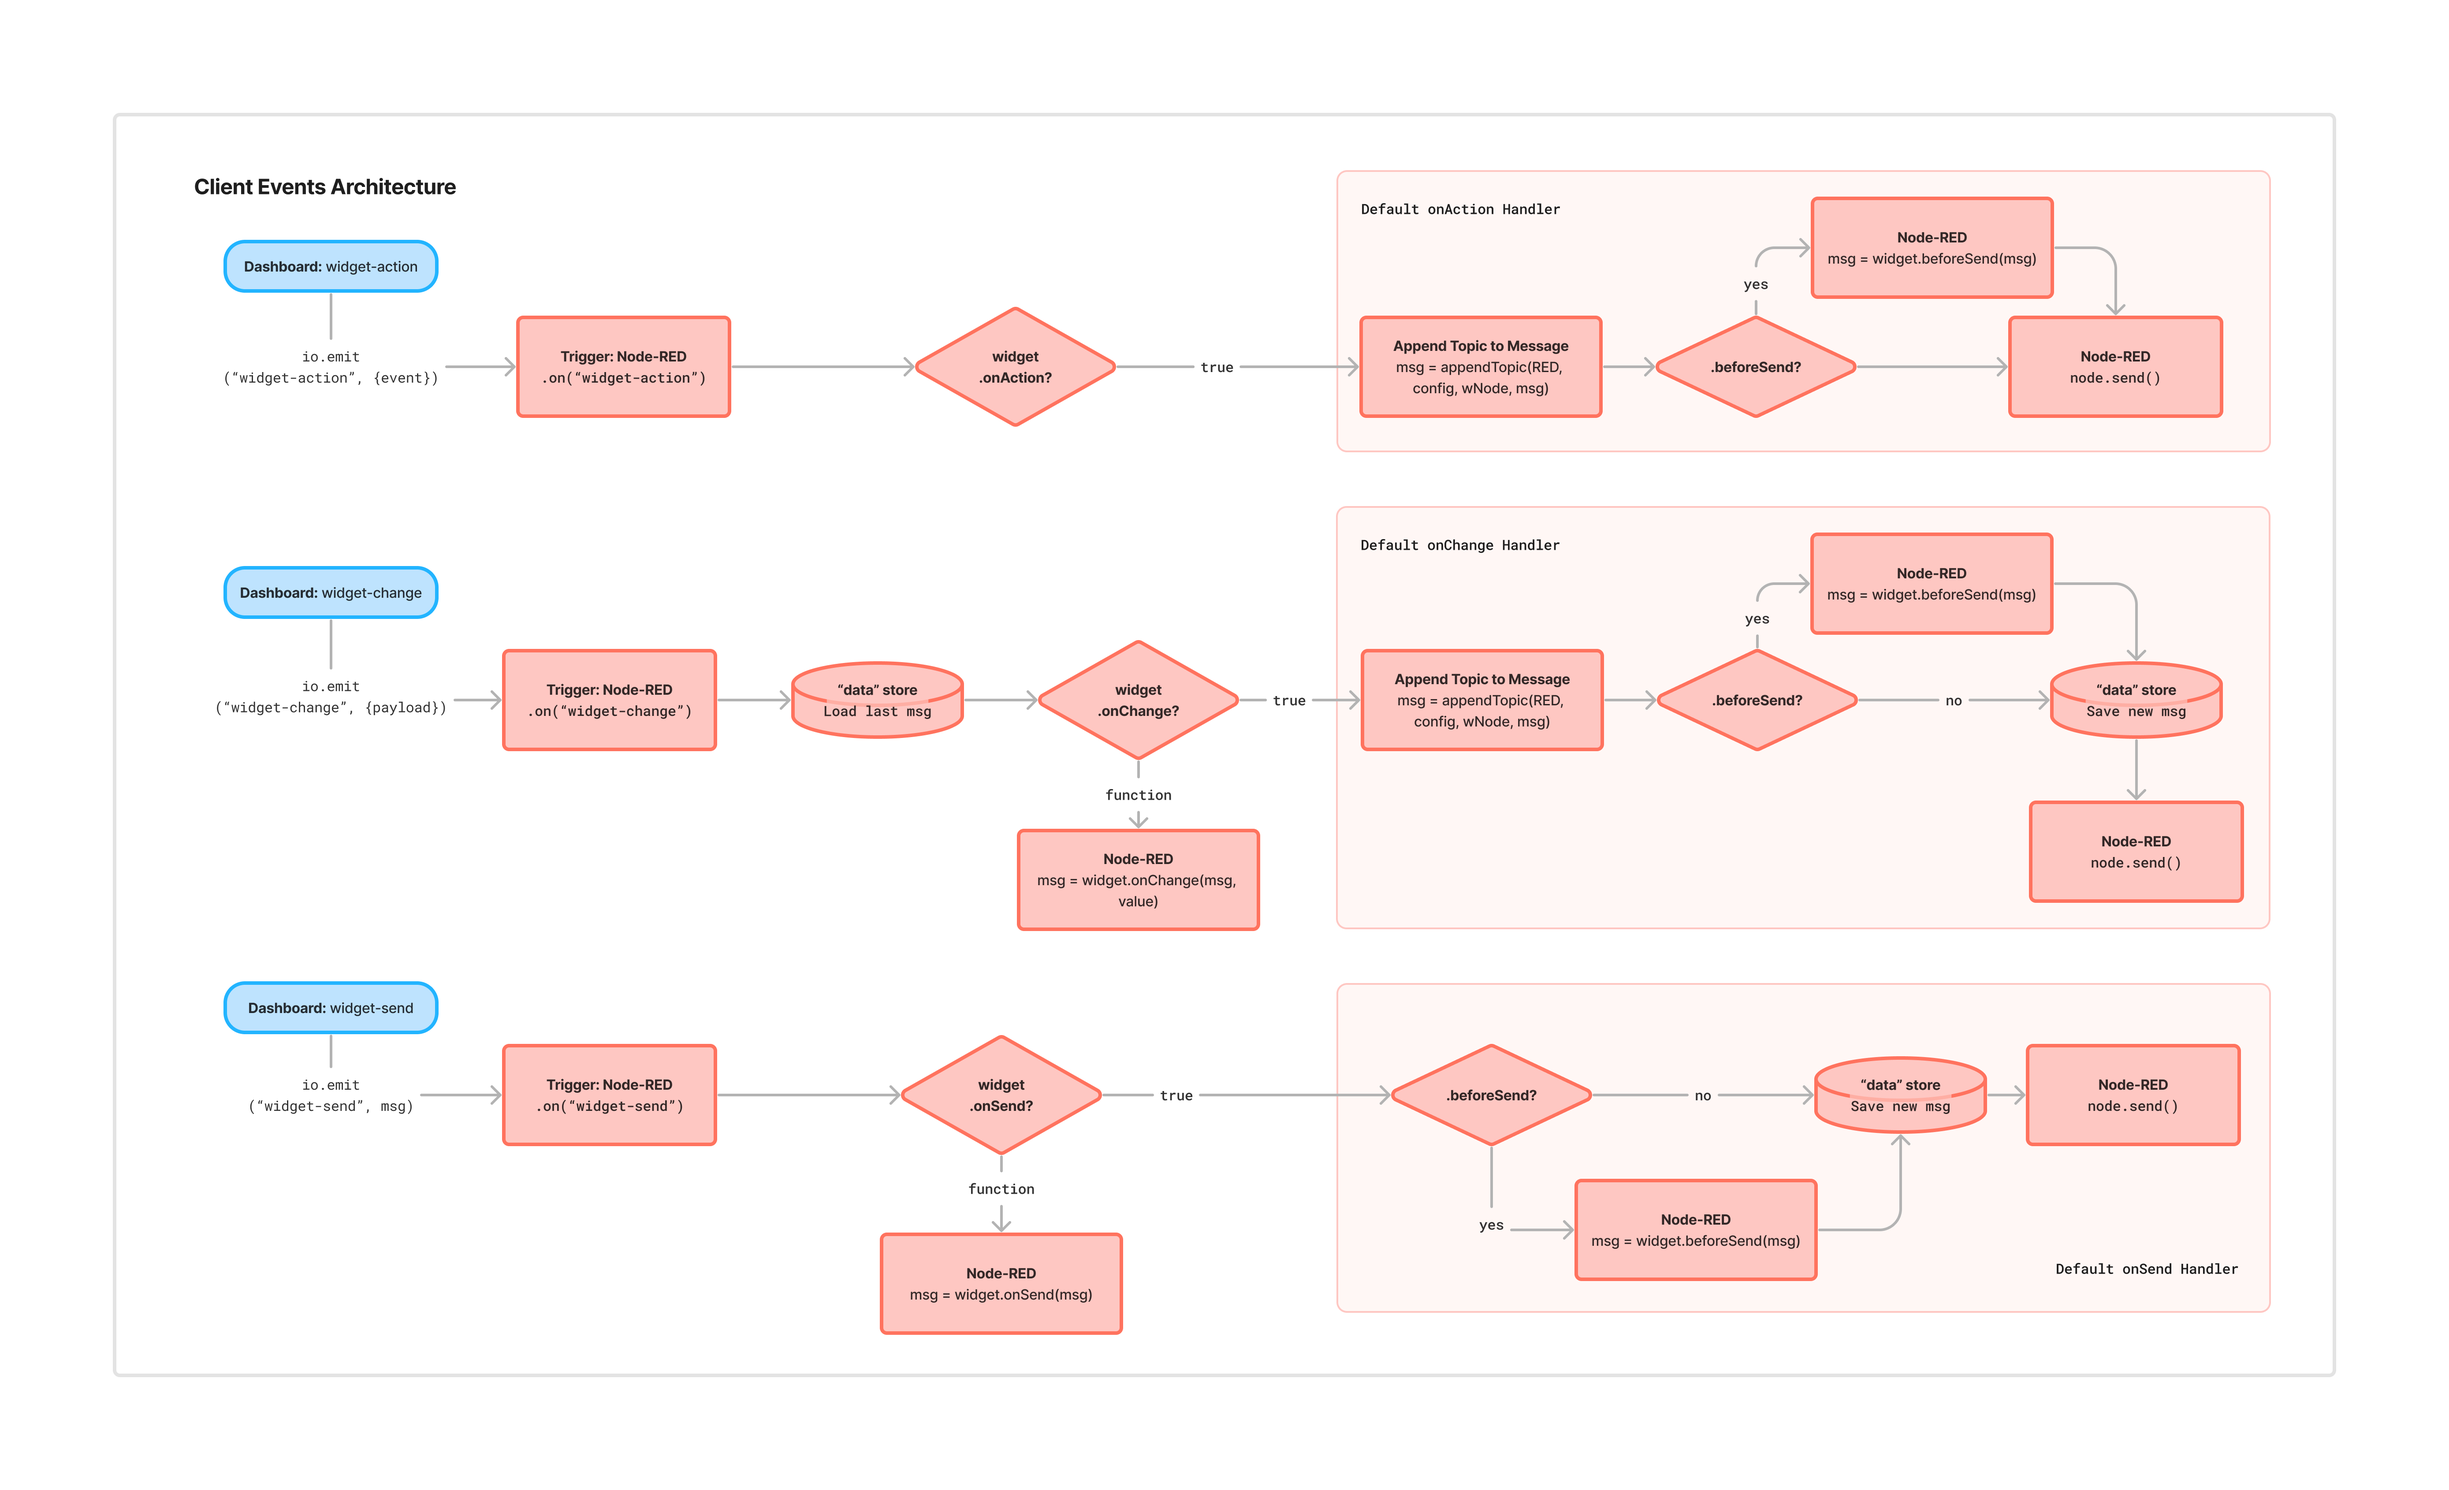
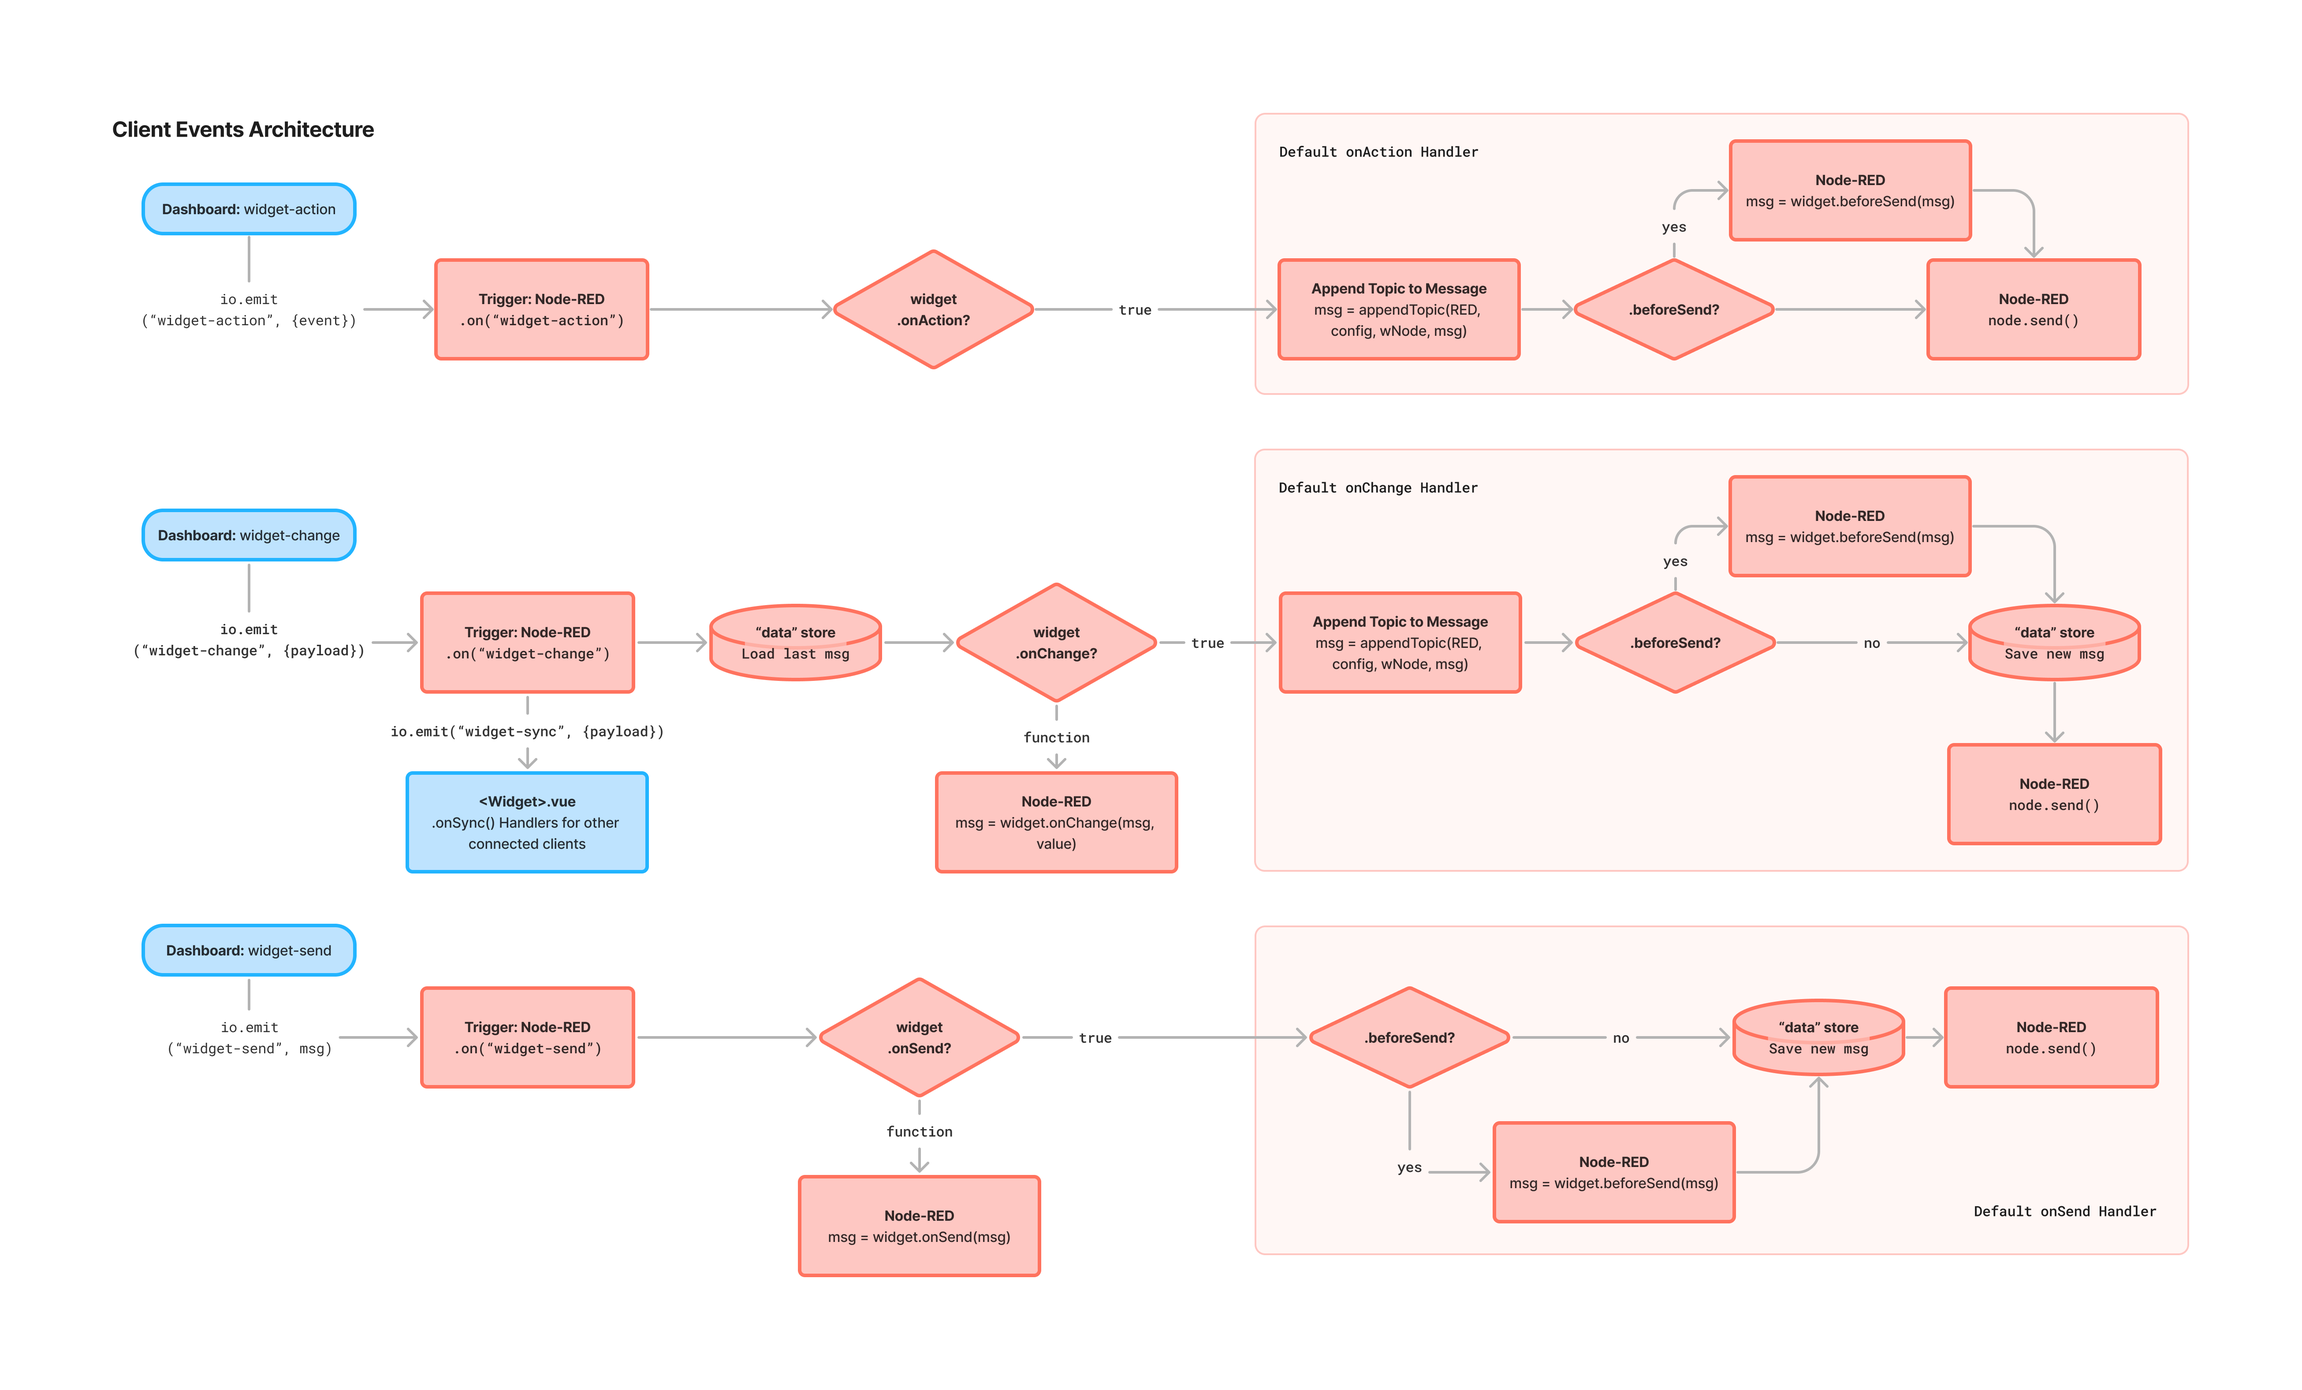
Widget Sync - Add new widget-sync event that permits clients to stay in-sync when FE changes occur

diff --git a/ui/src/widgets/ui-switch/UISwitch.vue b/ui/src/widgets/ui-switch/UISwitch.vue
@@ -123,7 +123,7 @@ export default {
     },
     created () {
         // can't do this in setup as we are using custom onInput function that needs access to 'this'
-        this.$dataTracker(this.id, this.onInput, this.onLoad, this.onDynamicProperties)
+        this.$dataTracker(this.id, this.onInput, this.onLoad, this.onDynamicProperties, this.onSync)
 
         // let Node-RED know that this widget has loaded
         this.$socket.emit('widget-load', this.id)
@@ -163,6 +163,14 @@ export default {
                     widgetId: this.id,
                     msg
                 })
+                // make sure we've got the relevant option selected on load of the page
+                if (msg.payload !== undefined) {
+                    this.selection = msg.payload
+                }
+            }
+        },
+        onSync (msg) {
+            if (msg) {
                 // make sure we've got the relevant option selected on load of the page
                 if (msg.payload !== undefined) {
                     this.selection = msg.payload

diff --git a/nodes/config/ui_base.js b/nodes/config/ui_base.js
@@ -356,9 +356,9 @@ module.exports = function (RED) {
          * @param {Object} msg
          * @param {Object} wNode - the Node-RED node that is emitting the event
          */
-        function emit (event, msg, wNode) {
+        function emit (event, msg, wNode, exclude) {
             Object.values(uiShared.connections).forEach(conn => {
-                if (canSendTo(conn, wNode, msg)) {
+                if (canSendTo(conn, wNode, msg) && (!exclude || exclude.indexOf(conn.id) === -1)) {
                     conn.emit(event, msg)
                 }
             })
@@ -639,6 +639,8 @@ module.exports = function (RED) {
                     msg = await widgetEvents.beforeSend(msg)
                 }
                 datastore.save(n, wNode, msg)
+                const exclude = [conn.id] // sync this change to all clients with the same widget
+                emit('widget-sync:' + id, msg, wNode, exclude) // let all other connect clients now about the value change
                 wNode.send(msg) // send the msg onwards
             }
 

diff --git a/ui/src/widgets/ui-number-input/UINumberInput.vue b/ui/src/widgets/ui-number-input/UINumberInput.vue
@@ -170,7 +170,7 @@ export default {
     },
     created () {
         // can't do this in setup as we are using custom onInput function that needs access to 'this'
-        this.$dataTracker(this.id, this.onInput, this.onLoad, this.onDynamicProperties)
+        this.$dataTracker(this.id, this.onInput, this.onLoad, this.onDynamicProperties, this.onSync)
     },
     methods: {
         onInput (msg) {
@@ -191,6 +191,12 @@ export default {
                 msg
             })
             // make sure we've got the relevant option selected on load of the page
+            if (msg?.payload !== undefined) {
+                this.textValue = msg.payload
+                this.previousValue = msg.payload
+            }
+        },
+        onSync (msg) {
             if (msg?.payload !== undefined) {
                 this.textValue = msg.payload
                 this.previousValue = msg.payload

diff --git a/ui/src/widgets/ui-dropdown/UIDropdown.vue b/ui/src/widgets/ui-dropdown/UIDropdown.vue
@@ -85,7 +85,7 @@ export default {
     },
     created () {
         // can't do this in setup as we are using custom onInput function that needs access to 'this'
-        this.$dataTracker(this.id, null, this.onLoad, this.onDynamicProperties)
+        this.$dataTracker(this.id, null, this.onLoad, this.onDynamicProperties, this.onSync)
 
         // let Node-RED know that this widget has loaded
         this.$socket.emit('widget-load', this.id)
@@ -132,6 +132,10 @@ export default {
                 this.updateDynamicProperty('chips', updates.chips)
                 this.updateDynamicProperty('clearable', updates.clearable)
             }
+        },
+        onSync (msg) {
+            // update the UI with any changes
+            this.value = msg.payload
         },
         onChange () {
             // ensure our data binding with vuex store is updated

diff --git a/nodes/config/ui_base.html b/nodes/config/ui_base.html
@@ -1926,7 +1926,9 @@
             <p>
                 This tab allows you to control whether or not client-specific data is included in messages,
                 and which nodes accept it in order to constrain communication to specific clients.
-                You can read more about it <a href="https://dashboard.flowfuse.com/user/sidebar.html#client-data" target="_blank">here</a>
+                You can read more about it <a href="https://dashboard.flowfuse.com/user/sidebar.html#client-data" target="_blank">here</a>.
+                This is also used to disable syncing between clients, meaning that widgets will automatically update
+                their values across multiple client connections, e.g. toggling a switch in one client, will update all other clients too.
             </p>
         </div>
         <div class="form-row form-row-flex">

diff --git a/ui/src/widgets/ui-button-group/UIButtonGroup.vue b/ui/src/widgets/ui-button-group/UIButtonGroup.vue
@@ -63,7 +63,7 @@ export default {
     },
     created () {
         // can't do this in setup as we are using custom onInput function that needs access to 'this'
-        this.$dataTracker(this.id, this.onInput, this.onLoad, this.onDynamicProperty)
+        this.$dataTracker(this.id, this.onInput, this.onLoad, this.onDynamicProperty, this.onSync)
 
         // let Node-RED know that this widget has loaded
         this.$socket.emit('widget-load', this.id)
@@ -112,6 +112,9 @@ export default {
                 this.updateDynamicProperty('label', updates.label)
                 this.updateDynamicProperty('options', updates.options)
             }
+        },
+        onSync (msg) {
+            this.selection = msg.payload
         },
         onChange (value) {
             if (value !== null && typeof value !== 'undefined') {

diff --git a/ui/src/widgets/ui-radio-group/UIRadioGroup.vue b/ui/src/widgets/ui-radio-group/UIRadioGroup.vue
@@ -69,7 +69,7 @@ export default {
     },
     created () {
         // can't do this in setup as we are using custom onInput function that needs access to 'this'
-        this.$dataTracker(this.id, this.onInput, this.onLoad, this.onDynamicProperties)
+        this.$dataTracker(this.id, this.onInput, this.onLoad, this.onDynamicProperties, this.onSync)
 
         // let Node-RED know that this widget has loaded
         this.$socket.emit('widget-load', this.id)
@@ -145,6 +145,9 @@ export default {
             this.updateDynamicProperty('label', updates.label)
             this.updateDynamicProperty('columns', updates.columns)
             this.updateDynamicProperty('options', updates.options)
+        },
+        onSync (msg) {
+            this.select(msg.payload)
         }
     }
 }

diff --git a/ui/src/widgets/ui-slider/UISlider.vue b/ui/src/widgets/ui-slider/UISlider.vue
@@ -106,7 +106,7 @@ export default {
         }
     },
     created () {
-        this.$dataTracker(this.id, null, this.onLoad, this.onDynamicProperties)
+        this.$dataTracker(this.id, null, this.onLoad, this.onDynamicProperties, this.onSync)
     },
     mounted () {
         this.value = this.messages[this.id]?.payload
@@ -148,6 +148,11 @@ export default {
             this.updateDynamicProperty('color', updates.color)
             this.updateDynamicProperty('colorTrack', updates.colorTrack)
             this.updateDynamicProperty('colorThumb', updates.colorThumb)
+        },
+        onSync (msg) {
+            if (msg?.payload !== undefined) {
+                this.value = Number(msg.payload)
+            }
         }
     }
 }

diff --git a/ui/src/widgets/ui-text-input/UITextInput.vue b/ui/src/widgets/ui-text-input/UITextInput.vue
@@ -127,7 +127,7 @@ export default {
     },
     created () {
         // can't do this in setup as we are using custom onInput function that needs access to 'this'
-        this.$dataTracker(this.id, this.onInput, this.onLoad, this.onDynamicProperties)
+        this.$dataTracker(this.id, this.onInput, this.onLoad, this.onDynamicProperties, this.onSync)
     },
     methods: {
         onInput (msg) {
@@ -153,6 +153,9 @@ export default {
                     this.textValue = msg.payload
                 }
             }
+        },
+        onSync (msg) {
+            this.textValue = msg.payload
         },
         send: function () {
             this.$socket.emit('widget-change', this.id, this.value)

diff --git a/docs/contributing/guides/events.md b/docs/contributing/guides/events.md
@@ -54,6 +54,14 @@ Some examples of events that are emitted from the Dashboard to Node-RED include:
 - `widget-action` - When a user interacts with a widget, and state of the widget is not important, e.g. a button click
 - `widget-send` - Used by `ui-template` to send a custom `msg` object, e.g. `send(msg)`, which will be stored in the server-side data store.
 
+#### Syncing Widgets
+
+The `widget-change` event is used to emit input from a ser, and represents a change of state for that widget, e.g. a switch can be on/off by a user clicking it. In this case, if you have multiple clients connected to the same Node-RED instance, Dashboard will ensure that clients are in-sync when values change. 
+
+For Example if you move a slider on one instance of the Dashboard, all sliders connected will also auto-update.
+
+To disable this "single source of truth" design pattern, you can check the widget type in the ["Client Data"](../../user/multi-tenancy#configuring-client-data) tab of the Dashboard settings.
+
 ## Events List
 
 This is a comprehensive list of all events that are sent between Node-RED and the Dashboard via socket.io.
@@ -99,6 +107,11 @@ and the `widget-change` received a new value of `40`, then the newly emitted mes
 ```
 
 Any value received here will also be stored against the widget in the datastore.
+
+### `widget-sync`
+- Payload: `<msg>`
+
+Triggered from the server-side `onChange` handler. This send a message out to all connected clients and informs relevant widgets of state/value changes. For example, when a slider is moved, the `widget-sync` message will ensure all connected clients, and their respective slider, are updated with the new value.
 
 ### `widget-action`
 - ID: `<node-id>`
